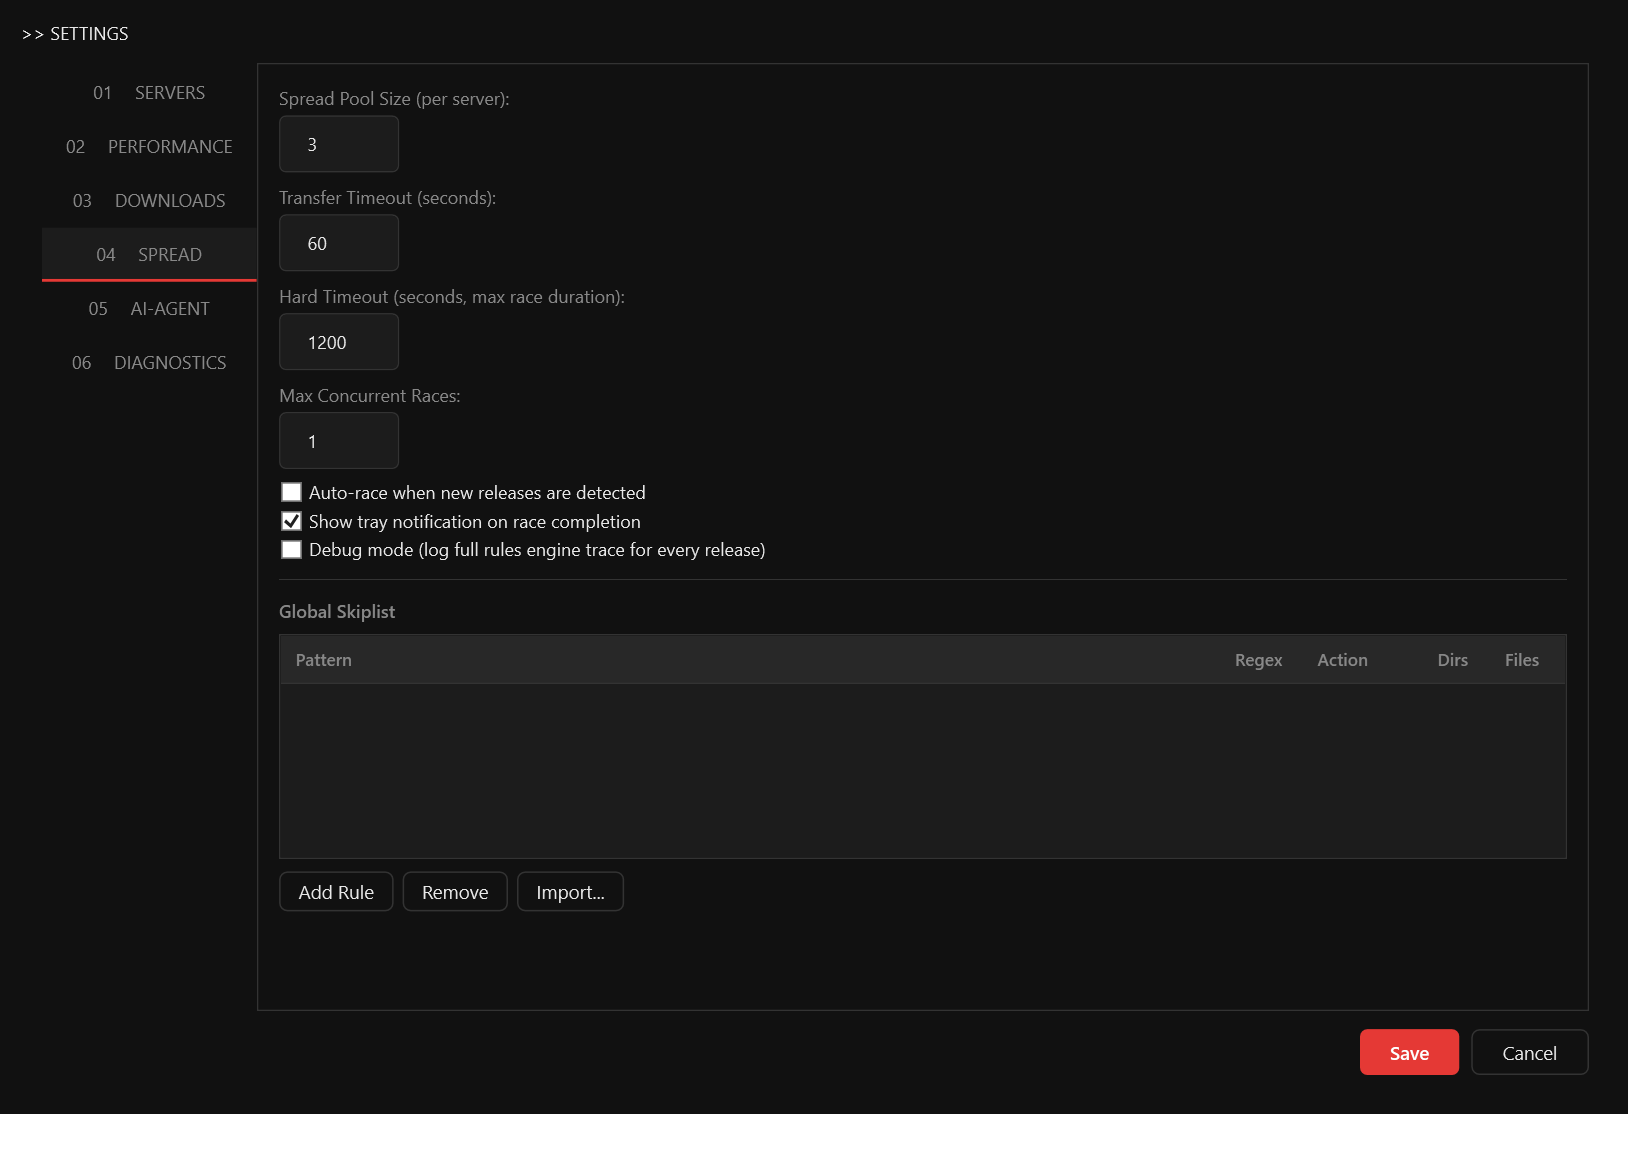
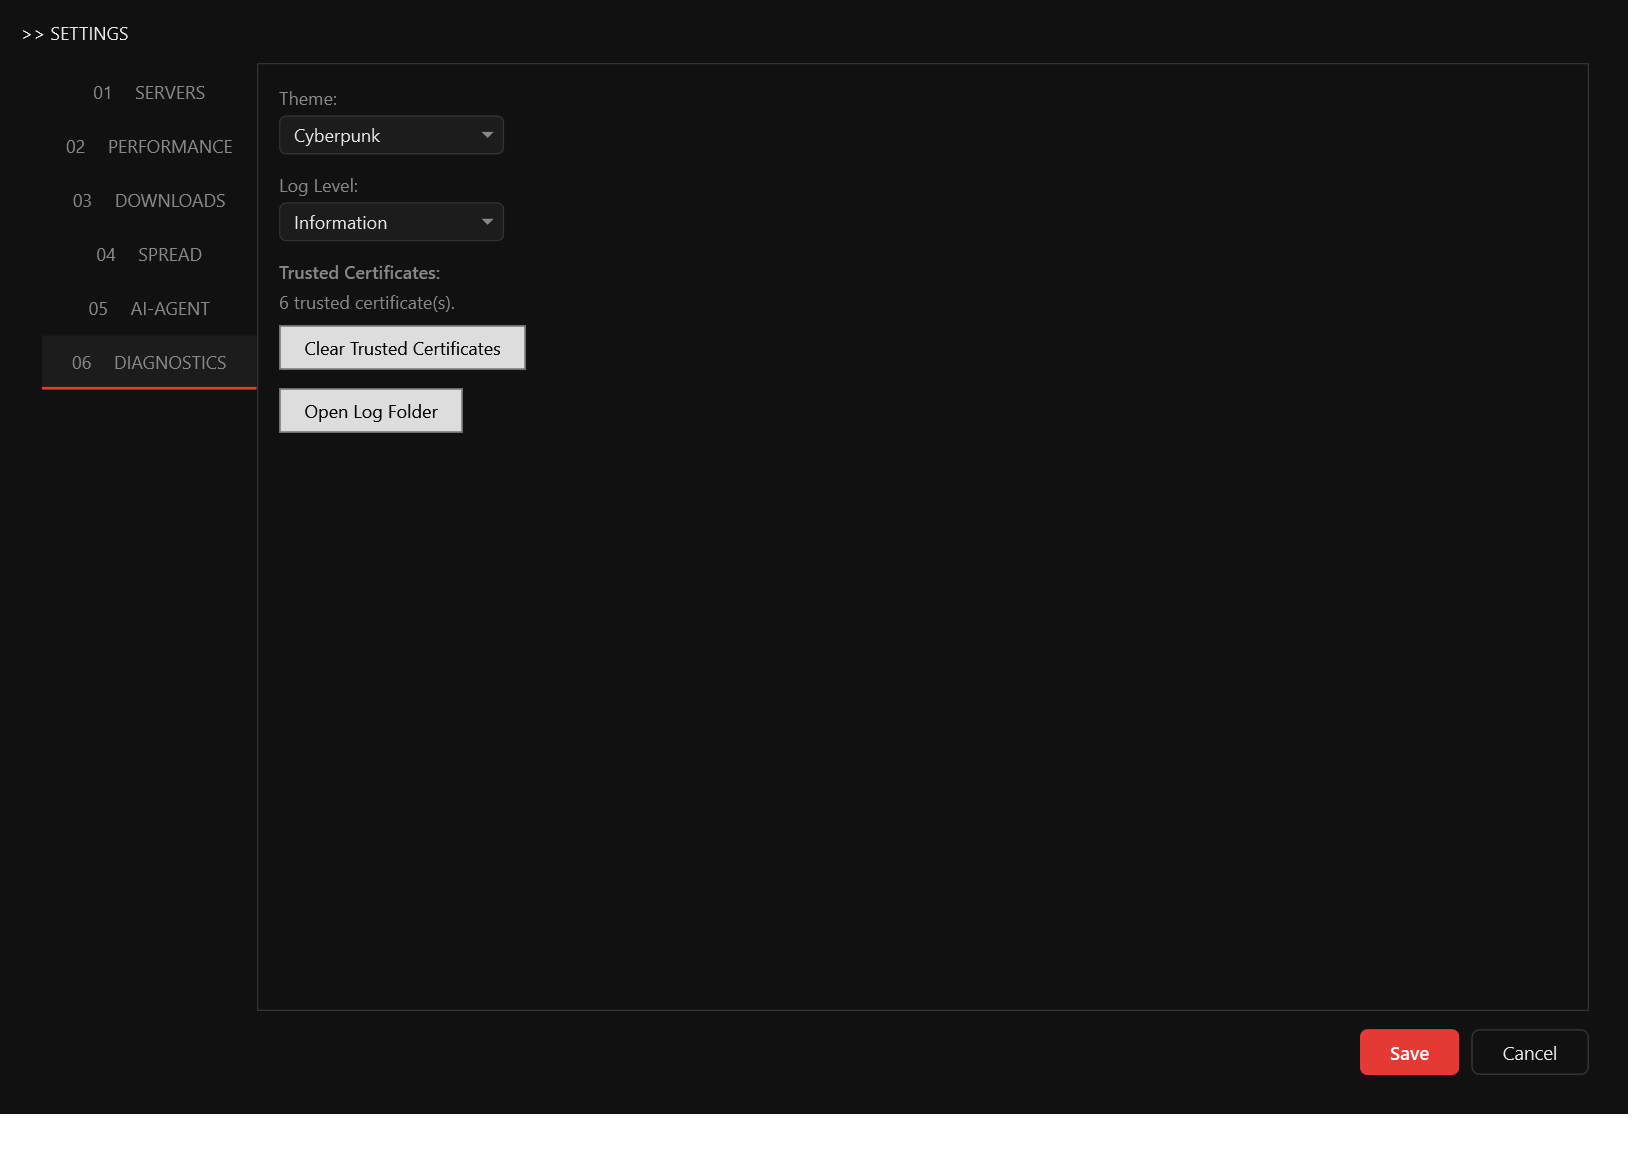
fix: screenshot-mode tab selection + seed demo data
Previous --screenshots output all looked like the Overview tab because
SelectedIndex = 0..4 landed on disabled section-header TabItems
('+ DASHBOARD', '+ MEDIA' etc.); WPF silently fell back to whichever
real tab was nearest. Every dashboard-*.png was the same view.

- ScreenshotCapture.SelectTabByHeader: walks MainTabControl.Items, skips
  disabled section dividers, matches by TextBlock content inside the
  header Grid. Both Dashboard and Settings windows use it now.
- ScreenshotCapture.SeedNotifications + BuildDemoDownloads +
  BuildDemoSearchResults: populates the Notifications / Downloads /
  Search tabs with realistic demo data so README screenshots show
  actual UI rows instead of an empty grid.
- NotificationStore: optional `persistToDisk` constructor flag (default
  true). The screenshot mode passes false so its 8 seeded demo notices
  do NOT overwrite the user's real notifications.json.

Refreshed all 14 docs/screenshots/*.png against this fix.

diff --git a/src/GlDrive/UI/ScreenshotCapture.cs b/src/GlDrive/UI/ScreenshotCapture.cs
@@ -59,28 +59,220 @@ internal static class ScreenshotCapture
     private static void CaptureDashboard(AppConfig config)
     {
         var certManager = new CertificateManager();
-        var notificationStore = new NotificationStore();
+        // persistToDisk=false: demo entries we Add() must NOT leak to the user's
+        // real notifications.json. Same data populates the Notifications tab.
+        var notificationStore = new NotificationStore(persistToDisk: false);
+        SeedNotifications(notificationStore);
+
         var serverManager = new ServerManager(config, certManager, notificationStore);
         var dashboard = new DashboardWindow(serverManager, config, notificationStore);
         dashboard.Show();
         DoEvents();
 
-        var tabNames = new[] { "notifications", "wishlist", "downloads", "search", "upcoming" };
+        // Inject demo downloads + search results directly into the VM's
+        // ObservableCollections. These tabs read from live MountedServer state
+        // (DownloadManager per server) which we don't have in demo mode, so
+        // the only practical way to show populated rows is post-construction
+        // collection seeding.
+        if (dashboard.DataContext is DashboardViewModel vm)
+        {
+            foreach (var dl in BuildDemoDownloads()) vm.DownloadItems.Add(dl);
+            foreach (var sr in BuildDemoSearchResults()) vm.SearchResults.Add(sr);
+        }
+        DoEvents();
+
+        // Tab headers in DashboardWindow.xaml include disabled "section header"
+        // TabItems (+ DASHBOARD, + TRANSFERS, + MEDIA, + COMMS) interleaved with
+        // the real tabs. Selecting by index landed on disabled headers and WPF
+        // silently fell back to whichever real tab was nearest — every screenshot
+        // came out as the Overview tab. Select by header text instead.
         var tabControl = FindTabControl(dashboard);
+
+        var dashboardTabs = new[]
+        {
+            ("notifications", "Notifications"),
+            ("wishlist",      "Wishlist"),
+            ("downloads",     "Downloads"),
+            ("search",        "Search"),
+            ("upcoming",      "Upcoming"),
+        };
 
         if (tabControl != null)
         {
-            for (var i = 0; i < tabNames.Length; i++)
+            foreach (var (file, header) in dashboardTabs)
             {
-                tabControl.SelectedIndex = i;
+                if (!SelectTabByHeader(tabControl, header)) continue;
                 dashboard.UpdateLayout();
                 DoEvents();
-                RenderToFile(dashboard, $"dashboard-{tabNames[i]}.png");
+                RenderToFile(dashboard, $"dashboard-{file}.png");
             }
         }
 
         dashboard.Close();
         serverManager.Dispose();
+    }
+
+    /// <summary>
+    /// Select the first enabled TabItem in <paramref name="tabControl"/> whose
+    /// header Grid contains a TextBlock with text matching
+    /// <paramref name="targetText"/> (case-insensitive). Skips disabled
+    /// section-header TabItems (the "+ DASHBOARD", "+ MEDIA" etc. dividers).
+    /// </summary>
+    private static bool SelectTabByHeader(TabControl tabControl, string targetText)
+    {
+        foreach (var item in tabControl.Items)
+        {
+            if (item is not TabItem ti || !ti.IsEnabled) continue;
+            if (ExtractHeaderText(ti.Header).Contains(targetText, StringComparison.OrdinalIgnoreCase))
+            {
+                ti.IsSelected = true;
+                return true;
+            }
+        }
+        return false;
+    }
+
+    private static string ExtractHeaderText(object? header)
+    {
+        return header switch
+        {
+            null => "",
+            string s => s,
+            TextBlock tb => tb.Text ?? "",
+            Panel panel => string.Join(" ",
+                panel.Children.OfType<DependencyObject>()
+                    .SelectMany(c => DescendantTextBlocks(c))
+                    .Select(tb => tb.Text ?? "")),
+            DependencyObject dep => string.Join(" ",
+                DescendantTextBlocks(dep).Select(tb => tb.Text ?? "")),
+            _ => header.ToString() ?? ""
+        };
+    }
+
+    private static IEnumerable<TextBlock> DescendantTextBlocks(DependencyObject node)
+    {
+        if (node is TextBlock t) yield return t;
+        if (node is Panel p)
+            foreach (var c in p.Children.OfType<DependencyObject>())
+                foreach (var d in DescendantTextBlocks(c)) yield return d;
+        else if (node is ContentControl cc && cc.Content is DependencyObject ccd)
+            foreach (var d in DescendantTextBlocks(ccd)) yield return d;
+    }
+
+    private static void SeedNotifications(NotificationStore store)
+    {
+        var now = DateTime.UtcNow;
+        var demo = new (string Cat, string Release, int MinutesAgo)[]
+        {
+            ("x265",     "Sinners.2026.2160p.UHD.BluRay.x265-LIGHTBRiNGER",                      2),
+            ("flac",     "Phoebe_Bridgers-Punisher_Live_From_The_Tropicana-WEB-FLAC-2026-MTD",   5),
+            ("tv-hd",    "The.Outer.Worlds.S03E04.1080p.WEB.H264-CAKES",                         8),
+            ("mp3",      "Aphex_Twin-Selected_Algorithm_Works-WEB-2026-FALCON",                 11),
+            ("bookware", "Pluralsight.Distributed.Systems.Fundamentals.2026.BOOKWARE-GETH",     14),
+            ("x264-hd",  "Dune.Part.Three.2026.1080p.BluRay.H264-RiSEHD",                       18),
+            ("games",    "Hades.III.Update.v1.0.4-RAZOR1911",                                   24),
+            ("tv-hd",    "Severance.S03E08.1080p.WEB.H264-NTb",                                 31),
+        };
+        foreach (var (cat, rel, mins) in demo)
+        {
+            store.Add(new NotificationItem
+            {
+                ServerId = "demo-siteb",
+                ServerName = "siteb",
+                Category = cat,
+                ReleaseName = rel,
+                RemotePath = $"/recent/{cat}/{rel}",
+                Timestamp = now.AddMinutes(-mins),
+            });
+        }
+    }
+
+    private static IEnumerable<DownloadItemVm> BuildDemoDownloads()
+    {
+        yield return new DownloadItemVm
+        {
+            Id = "d1",
+            ReleaseName = "Sinners.2026.2160p.UHD.BluRay.x265-LIGHTBRiNGER",
+            Category = "x265",
+            ServerName = "siteb",
+            Status = "Downloading",
+            ProgressPercent = 64.2,
+            ProgressText = "12.8 GiB / 19.9 GiB",
+            SpeedDisplay = "84.2 MiB/s",
+            LocalPath = @"D:\Movies\Sinners.2026.2160p.UHD.BluRay.x265-LIGHTBRiNGER",
+        };
+        yield return new DownloadItemVm
+        {
+            Id = "d2",
+            ReleaseName = "The.Outer.Worlds.S03E04.1080p.WEB.H264-CAKES",
+            Category = "tv-hd",
+            ServerName = "siteb",
+            Status = "Downloading",
+            ProgressPercent = 31.7,
+            ProgressText = "456 MiB / 1.44 GiB",
+            SpeedDisplay = "42.1 MiB/s",
+            LocalPath = @"D:\TV\The.Outer.Worlds.S03E04.1080p.WEB.H264-CAKES",
+        };
+        yield return new DownloadItemVm
+        {
+            Id = "d3",
+            ReleaseName = "Aphex_Twin-Selected_Algorithm_Works-WEB-2026-FALCON",
+            Category = "mp3",
+            ServerName = "siteb",
+            Status = "Extracting",
+            ProgressPercent = 100,
+            ProgressText = "172 MiB / 172 MiB",
+            SpeedDisplay = "",
+            LocalPath = @"D:\Music\Aphex_Twin-Selected_Algorithm_Works-WEB-2026-FALCON",
+        };
+        yield return new DownloadItemVm
+        {
+            Id = "d4",
+            ReleaseName = "Severance.S03E07.1080p.WEB.H264-NTb",
+            Category = "tv-hd",
+            ServerName = "sited",
+            Status = "Completed",
+            ProgressPercent = 100,
+            ProgressText = "1.31 GiB / 1.31 GiB",
+            SpeedDisplay = "",
+            LocalPath = @"D:\TV\Severance.S03E07.1080p.WEB.H264-NTb",
+        };
+        yield return new DownloadItemVm
+        {
+            Id = "d5",
+            ReleaseName = "Hades.III.Update.v1.0.4-RAZOR1911",
+            Category = "games",
+            ServerName = "SITEC",
+            Status = "Queued",
+            ProgressPercent = 0,
+            ProgressText = "0 B / 2.8 GiB",
+            SpeedDisplay = "",
+            LocalPath = @"D:\Games\Hades.III.Update.v1.0.4-RAZOR1911",
+        };
+        yield return new DownloadItemVm
+        {
+            Id = "d6",
+            ReleaseName = "Dune.Part.Three.2026.1080p.BluRay.H264-RiSEHD",
+            Category = "x264-hd",
+            ServerName = "siteb",
+            Status = "Failed",
+            ProgressPercent = 18.4,
+            ProgressText = "1.8 GiB / 9.7 GiB",
+            SpeedDisplay = "",
+            LocalPath = @"D:\Movies\Dune.Part.Three.2026.1080p.BluRay.H264-RiSEHD",
+        };
+    }
+
+    private static IEnumerable<SearchResultVm> BuildDemoSearchResults()
+    {
+        long Gib(double g) => (long)(g * 1024 * 1024 * 1024);
+        yield return new SearchResultVm { ReleaseName = "Sinners.2026.2160p.UHD.BluRay.x265-LIGHTBRiNGER", Category = "x265", RemotePath = "/x265/Sinners.2026.2160p.UHD.BluRay.x265-LIGHTBRiNGER", Size = Gib(19.9), SizeText = "19.9 GiB", ServerName = "siteb" };
+        yield return new SearchResultVm { ReleaseName = "Sinners.2026.1080p.BluRay.H264-RiSEHD",            Category = "x264-hd", RemotePath = "/x264-hd/Sinners.2026.1080p.BluRay.H264-RiSEHD", Size = Gib(9.4), SizeText = "9.4 GiB", ServerName = "siteb" };
+        yield return new SearchResultVm { ReleaseName = "Sinners.2026.1080p.WEB.H264-NAISU",                 Category = "x264-hd", RemotePath = "/x264-hd/Sinners.2026.1080p.WEB.H264-NAISU", Size = Gib(7.1), SizeText = "7.1 GiB", ServerName = "sited" };
+        yield return new SearchResultVm { ReleaseName = "Sinners.2026.720p.BluRay.H264-NAISU",               Category = "x264-hd", RemotePath = "/x264-hd/Sinners.2026.720p.BluRay.H264-NAISU", Size = Gib(4.6), SizeText = "4.6 GiB", ServerName = "sited" };
+        yield return new SearchResultVm { ReleaseName = "Sinners.2026.MULTi.1080p.BluRay.x265-LIGHTBRiNGER", Category = "x265", RemotePath = "/x265/Sinners.2026.MULTi.1080p.BluRay.x265-LIGHTBRiNGER", Size = Gib(13.2), SizeText = "13.2 GiB", ServerName = "SITEC" };
+        yield return new SearchResultVm { ReleaseName = "Sinners.2026.PROPER.2160p.UHD.BluRay.DV.HDR.x265-NCmt", Category = "x265", RemotePath = "/x265/Sinners.2026.PROPER.2160p.UHD.BluRay.DV.HDR.x265-NCmt", Size = Gib(28.7), SizeText = "28.7 GiB", ServerName = "SITEC" };
+        yield return new SearchResultVm { ReleaseName = "Sinners.2026.BDRip.x264-PUTRiD",                    Category = "x264-sd", RemotePath = "/x264-sd/Sinners.2026.BDRip.x264-PUTRiD", Size = Gib(1.5), SizeText = "1.5 GiB", ServerName = "sited" };
     }
 
     private static void CaptureSettings(AppConfig config)
@@ -92,17 +284,24 @@ internal static class ScreenshotCapture
         settings.Show();
         DoEvents();
 
-        var tabNames = new[] { "servers", "performance", "downloads", "diagnostics" };
         var tabControl = FindTabControl(settings);
+
+        var settingsTabs = new[]
+        {
+            ("servers",     "Servers"),
+            ("performance", "Performance"),
+            ("downloads",   "Downloads"),
+            ("diagnostics", "Diagnostics"),
+        };
 
         if (tabControl != null)
         {
-            for (var i = 0; i < tabNames.Length; i++)
+            foreach (var (file, header) in settingsTabs)
             {
-                tabControl.SelectedIndex = i;
+                if (!SelectTabByHeader(tabControl, header)) continue;
                 settings.UpdateLayout();
                 DoEvents();
-                RenderToFile(settings, $"settings-{tabNames[i]}.png");
+                RenderToFile(settings, $"settings-{file}.png");
             }
         }
 

diff --git a/src/GlDrive/Downloads/NotificationStore.cs b/src/GlDrive/Downloads/NotificationStore.cs
@@ -33,6 +33,18 @@ public class NotificationStore
     private readonly object _lock = new();
     private List<NotificationItem> _items = [];
     private int _saveQueued;
+    private readonly bool _persistToDisk;
+
+    /// <summary>
+    /// Construct a notification store. <paramref name="persistToDisk"/> defaults
+    /// to true (normal app behavior — Load/Save against %AppData%). Pass false
+    /// from screenshot / test code that wants to seed in-memory demo entries
+    /// without overwriting the user's real notifications.json.
+    /// </summary>
+    public NotificationStore(bool persistToDisk = true)
+    {
+        _persistToDisk = persistToDisk;
+    }
 
     public IReadOnlyList<NotificationItem> Items
     {
@@ -68,6 +80,8 @@ public class NotificationStore
 
     public void Save()
     {
+        if (!_persistToDisk) return;
+
         string json;
         lock (_lock)
         {
@@ -104,6 +118,7 @@ public class NotificationStore
 
     private void ScheduleSave()
     {
+        if (!_persistToDisk) return;
         if (Interlocked.Exchange(ref _saveQueued, 1) == 1) return;
         _ = Task.Run(async () =>
         {
